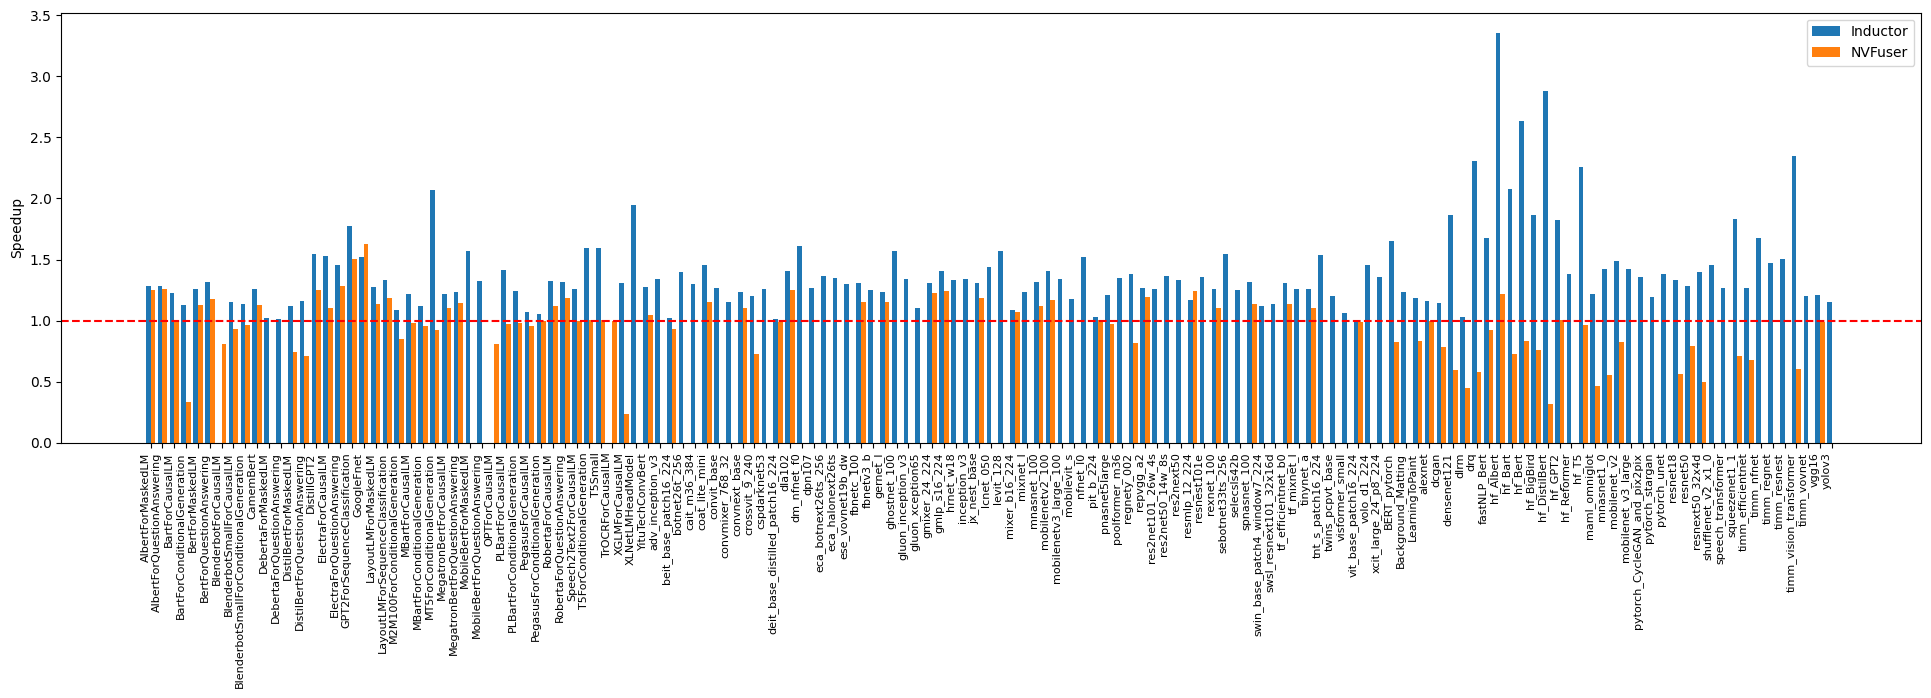
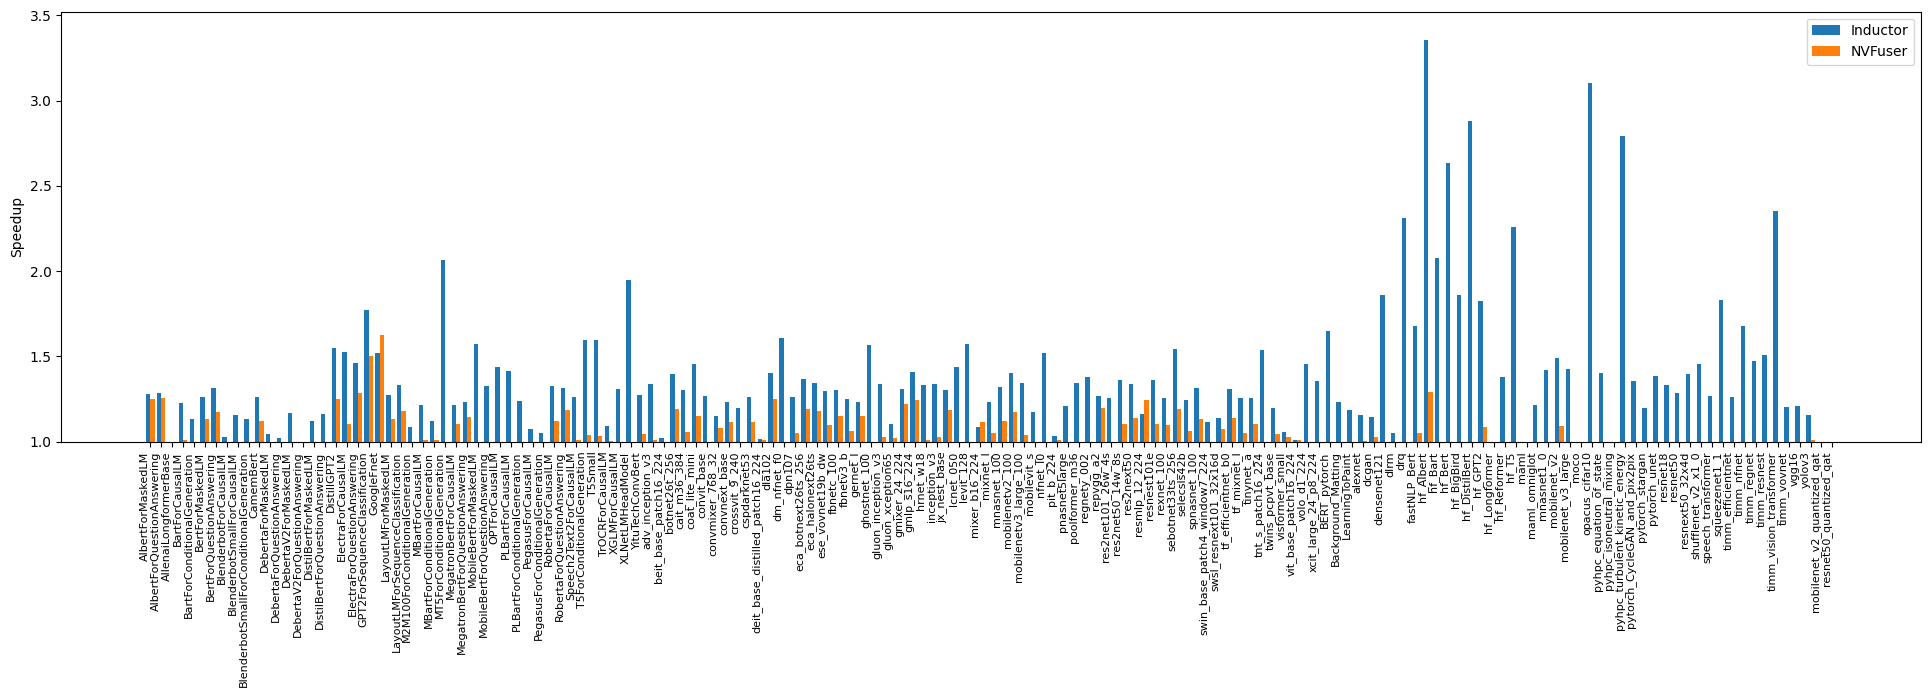
fix

diff --git a/data/graph.py b/data/graph.py
@@ -7,15 +7,25 @@ def parse_log(file_name, slug):
         for line in f:
             if line.startswith(slug):
                 out.append(line)
-    out = [[item.split()[0], item.split()[1], item.split()[2], item.split()[3]] for item in out]
+    def process_item(name, x):
+        # print(name)
+        if x is not None:
+            if 'ERROR' in x or 'Traceback' in x or 'function:' in x:
+                return 1.0
+            else:
+                # print(x)
+                as_float = float(x.replace('x', ''))
+                if as_float < 1.0:
+                    return 1.0
+                else:
+                    return as_float
+        return 1.0
+
+    # print(file_name)
+    out = [[item.split()[0], item.split()[1], item.split()[2], process_item(item.split()[0], item.split()[3])] for item in out]
     return out
 
 def describe_delta(data1, data2, name1, name2, run_name):
-    for d in [data1, data2]:
-        for row in d:
-            if row[3] and ('ERROR' in row[3] or 'Traceback' in row[3]):
-                row[3] = None
-    
     model_names = []
     performances1 = []
     performances2 = []
@@ -24,15 +34,9 @@ def describe_delta(data1, data2, name1, name2, run_name):
         assert row1[2] == row2[2]  # Make sure model names match between the two datasets
         model_names.append(row1[2])
         if row1[3] is not None:
-            try:
-                performances1.append(float(row1[3].replace('x', '')))
-            except:
-                pass
+            performances1.append(row1[3])
         if row2[3] is not None:
-            try:
-                performances2.append(float(row2[3].replace('x', '')))
-            except:
-                pass
+            performances2.append(row2[3])
     
     print(f"==== {run_name} ====")
     print(f"Geomean {name1} : {sum(performances1)/len(performances1)}")
@@ -52,20 +56,13 @@ def graph_delta(data_names, title):
 
     last_names = []
     for (d, n) in data_names:
-        # Filter out the rows with bad data
-        for row in d:
-            if row[3] and ('ERROR' in row[3] or 'Traceback' in row[3]):
-                row[3] = None
-
         # Extract the model names and their corresponding performances from the data
         model_names = []
         performances = []
         for row in d:
             model_names.append(row[2])
-            try:
-                performances.append(float(row[3].replace('x', '')) if row[3] is not None else float('nan'))
-            except:
-                performances.append(float('nan'))
+            performances.append(row[3])
+                
 
         # print(set(model_names) - set(last_names))
         # print(set(last_names) - set(model_names))
@@ -78,16 +75,8 @@ def graph_delta(data_names, title):
         width += 0.4
         ax.set_xticklabels(model_names, rotation=90, ha='right')
 
-
-    
-    # assert len(data) == len(names), "The number of data sets must match the number of names"
-
-    # for i, d in enumerate(data):
-    #     ax.bar(model_names, d, width=width, align='edge', label=names[i])
-    #     width += 0.4
-
-    ax.axhline(y=1, color='r', linestyle='--')
-    ax.set_ylim(bottom=0)
+    # ax.axhline(y=1, color='r', linestyle='--')
+    ax.set_ylim(bottom=1.0)
     ax.set_xticklabels(model_names, rotation=90, ha='right')
     ax.set_ylabel('Speedup')
     # ax.set_title('PT2 Cuda Eval Backend Comparison - HF')
@@ -105,21 +94,9 @@ def graph_delta_merged(data1, data2, name1, name2, title):
     for row1, row2 in zip(data1, data2):
         assert row1[2] == row2[2], f"row1: {row1}, row2: {row2}"  # Make sure model names match between the two datasets
         
-        if isinstance(row1[3], str) and isinstance(row2[3], str):
-            continue
-        if row1[3] == 0 and row2[3] == 0:
-            continue
-
         model_names.append(row1[2])
-        if isinstance(row1[3], str):
-            performances1.append(float('nan'))
-        else:
-            performances1.append(row1[3])
-
-        if isinstance(row2[3], str):
-            performances2.append(float('nan'))
-        else:
-            performances2.append(row2[3])
+        performances1.append(row1[3])
+        performances2.append(row2[3])
 
     # Plot the performances for the two datasets
     fig, ax = plt.subplots(figsize=(24, 10))
@@ -127,8 +104,8 @@ def graph_delta_merged(data1, data2, name1, name2, title):
     plt.rc('xtick', labelsize=8)    # fontsize of the tick labels
     ax.bar(model_names, performances1, width=-0.4, align='edge', label=name1)
     ax.bar(model_names, performances2, width=0.4, align='edge', label=name2)
-    ax.axhline(y=1, color='r', linestyle='--')
-    ax.set_ylim(bottom=0)
+    # ax.axhline(y=1, color='r', linestyle='--')
+    ax.set_ylim(bottom=1.0)
     ax.set_xticklabels(model_names, rotation=90, ha='right')
     ax.set_ylabel('Speedup')
     # ax.set_title('PT2 Cuda Eval Backend Comparison - HF')
@@ -151,7 +128,7 @@ def draw_per_kind_per_bench_graphs():
         inductor_train.extend(parse_log(f"data/{bench}_inductor_train.log", f"cuda train"))
         nvfuser_train.extend(parse_log(f"data/{bench}_nvfuser_train.log", f"cuda train"))
 
-    graph_delta([(inductor_eval, "Inductor - Inference"), (inductor_train, "Inductor - Train"), (nvfuser_eval, "NVFuser - Inference"), (nvfuser_train, "NVFuser - Train")], title=f"all_inductor_nvfuser_gpu")
+    graph_delta([(inductor_eval, "Inductor - Inference"), (inductor_train, "Inductor - Train"), (nvfuser_eval, "NVFuser - Inference"), (nvfuser_train, "NVFuser - Train")], title=f"all_inductor_nvfuser_gpu_per_kind")
 
 
 # draw_per_kind_per_bench_graphs()
@@ -165,7 +142,7 @@ def draw_all_not_merged():
         for kind in kinds:
             inductor.extend(parse_log(f"data/{bench}_inductor_{kind}.log", f"cuda {kind}"))
             nvfuser.extend(parse_log(f"data/{bench}_nvfuser_{kind}.log", f"cuda {kind}"))
-    describe_delta(inductor, nvfuser, "Inductor", "NVFuser", f"all_inductor_nvfuser_gpu")
+    # describe_delta(inductor, nvfuser, "Inductor", "NVFuser", f"all_inductor_nvfuser_gpu")
     graph_delta([(inductor, "inductor"), (nvfuser, "NVFuser")], f"all_inductor_nvfuser_gpu")
 
 def draw_all_merged():
@@ -194,38 +171,18 @@ def draw_all_merged():
                 merged_entry.append(grouped_dict[key][0][i])
             for i in range(1, len(grouped_dict[key])):
                 curr = merged_entry[-1]
-                first_fail = False
-                if isinstance(curr, str):
-                    try:
-                        val = float(curr.replace("x", ''))
-                    except:
-                        first_fail = True
-                        val = 0
-                else:
-                    val = curr
-
                 subseq = grouped_dict[key][i][-1]
-                if isinstance(curr, str):
-                    try:
-                        val = val + float(subseq.replace("x", ''))
-                    except:
-                        first_fail = True
-                        val = 0
-                else:
-                    val = val + subseq
-                
-                if first_fail:
-                    merged_entry[-1] = val 
-                else:
-                    merged_entry[-1] = val / 2
+                val = curr + subseq
+                merged_entry[-1] = val / 2
             merged_list.append(merged_entry)
 
         return merged_list
 
     # describe_delta(merge(inductor), merge(nvfuser), "Inductor", "NVFuser", f"merged_inductor_nvfuser_gpu")
-    graph_delta_merged(merge(inductor), merge(nvfuser), "Inductor", "NVFuser", f"merged_inductor_nvfuser_gpu")
+    describe_delta(merge(inductor), merge(nvfuser), "Inductor", "NVFuser", f"all_inductor_nvfuser_gpu")
+    # graph_delta_merged(merge(inductor), merge(nvfuser), "Inductor", "NVFuser", f"merged_inductor_nvfuser_gpu")
 
 
-draw_per_kind_per_bench_graphs()
+# draw_per_kind_per_bench_graphs()
 # draw_all_not_merged()
-# draw_all_merged()
+draw_all_merged()
